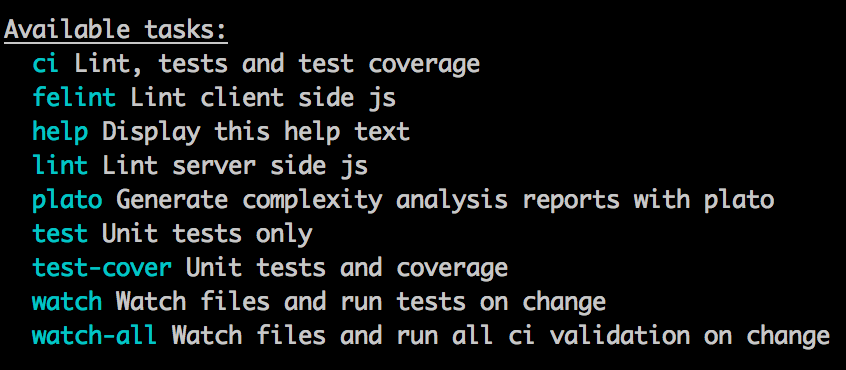
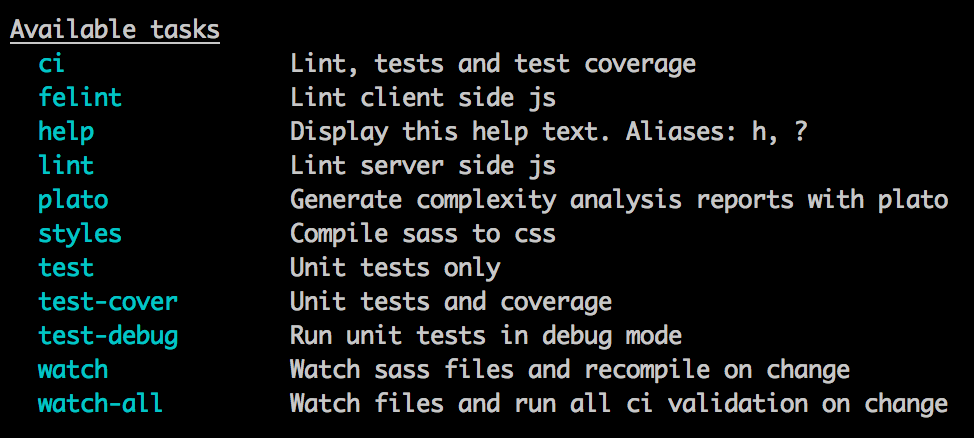
document new test-debug target

Changed region(s): [[0.0, 0.0297, 0.9835, 0.9514]]

diff --git a/readme.md b/readme.md
@@ -19,11 +19,7 @@ Supplies a common interface to the following gulp modules:
 ### Debug Tests
 
 You can debug your mocha tests using a tool like [node-inspector](https://github.com/node-inspector/node-inspector)
-by calling `gulp.js` directly via node, e.g.
-
-```
-$ node --debug-brk node_modules/gulp/bin/gulp.js test
-```
+combined with the `gulp test-debug` target
 
 ## Basic Usage
 
